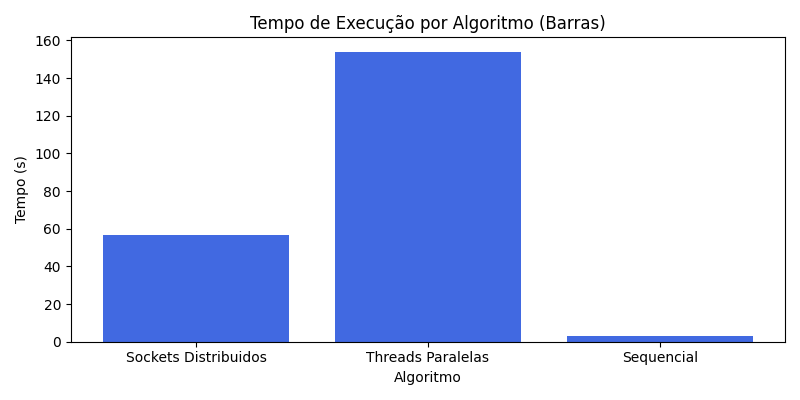
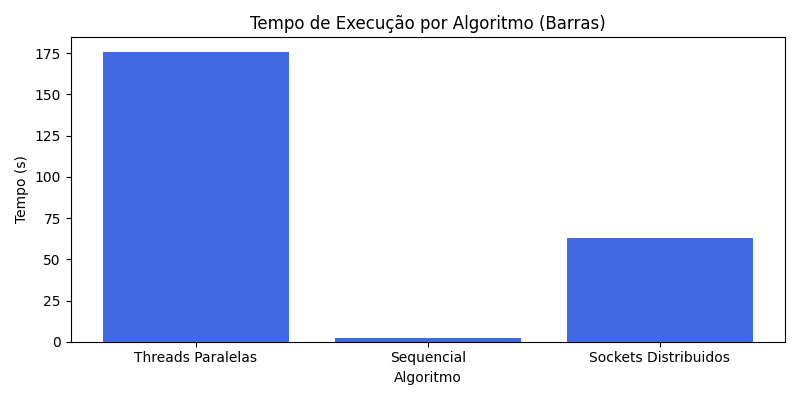
Implementação da classe main

diff --git a/src/main.py b/src/main.py
@@ -3,6 +3,16 @@ import os
 import sys
 import subprocess
 from pathlib import Path
+import sys
+from pathlib import Path
+
+# Adiciona o diretório do plot_generator ao sys.path
+BASE_DIR = Path(__file__).resolve().parent.parent  # Ajuste o caminho para o diretório base
+ANALYSIS_DIR = BASE_DIR / "analysis"
+sys.path.append(str(ANALYSIS_DIR))
+
+from plot_generator import comparar_e_gerar_relatorio  # Importa a função do gerador de relatórios
+
 
 def execute_script_subprocess(file_path):
     """Executa um script Python como um subprocesso e mede o tempo de execução."""
@@ -70,22 +80,28 @@ def main():
     script_sequential = os.path.join(base_dir, "sequencial", "sequential_solver.py")
     data_file = "minimal_test.txt"  # Nome do arquivo de dados
 
-    # Executa o script paralelo
+    # Coleta os tempos de execução
+    resultados = {}
+
     print("Executando o script paralelo...")
-    parallel_time = execute_script_subprocess(script_parallel)
-    print(f"Tempo de execução do script paralelo: {parallel_time:.2f} segundos\n")
+    resultados["Threads Paralelas"] = {
+        "tempo": execute_script_subprocess(script_parallel)
+    }
 
-    # Executa o script sequencial
     print("Executando o script sequencial...")
-    sequential_time = execute_script_subprocess(script_sequential)
-    print(f"Tempo de execução do script sequencial: {sequential_time:.2f} segundos\n")
+    resultados["Sequencial"] = {
+        "tempo": execute_script_subprocess(script_sequential)
+    }
 
-    # Executa o código distribuído
     print("Executando o código distribuído...")
     start_time = time.perf_counter()
     execute_distributed_scripts(base_dir, num_clients=12, data_file=data_file)
-    distributed_time = time.perf_counter() - start_time
-    print(f"Tempo de execução do código distribuído: {distributed_time:.2f} segundos\n")
+    resultados["Sockets Distribuidos"] = {
+        "tempo": time.perf_counter() - start_time
+    }
+
+    # Gera o relatório com os resultados
+    comparar_e_gerar_relatorio(resultados)
 
 if __name__ == "__main__":
     main()

diff --git a/analysis/plot_generator.py b/analysis/plot_generator.py
@@ -116,20 +116,11 @@ def gerar_pdf(resultados):
 
     c.save()  # Salva o PDF
 
-# Função principal que executa os scripts, coleta os dados e gera os relatórios
-def comparar_e_gerar_relatorio():
-    resultados = {}
-    for nome, caminho in scripts.items():
-        print(f"\nExecutando: {nome}")
-        dados = medir_execucao(str(caminho))  # Executa o script e coleta os dados dos algoritmos
-        resultados[nome] = dados
-        if dados["tempo"] is not None:
-            print(f"{nome}: {dados['tempo']:.6f} segundos")
-        else:
-            print(f"{nome}: falhou na execução")
-
+# Função principal que gera os gráficos e o PDF com base nos resultados fornecidos
+def comparar_e_gerar_relatorio(resultados):
     gerar_graficos(resultados)  # Gera os gráficos com os resultados
     gerar_pdf(resultados)       # Gera o PDF com os resultados e os gráficos
+
 
 # Executa o algoritmo
 if __name__ == "__main__":
